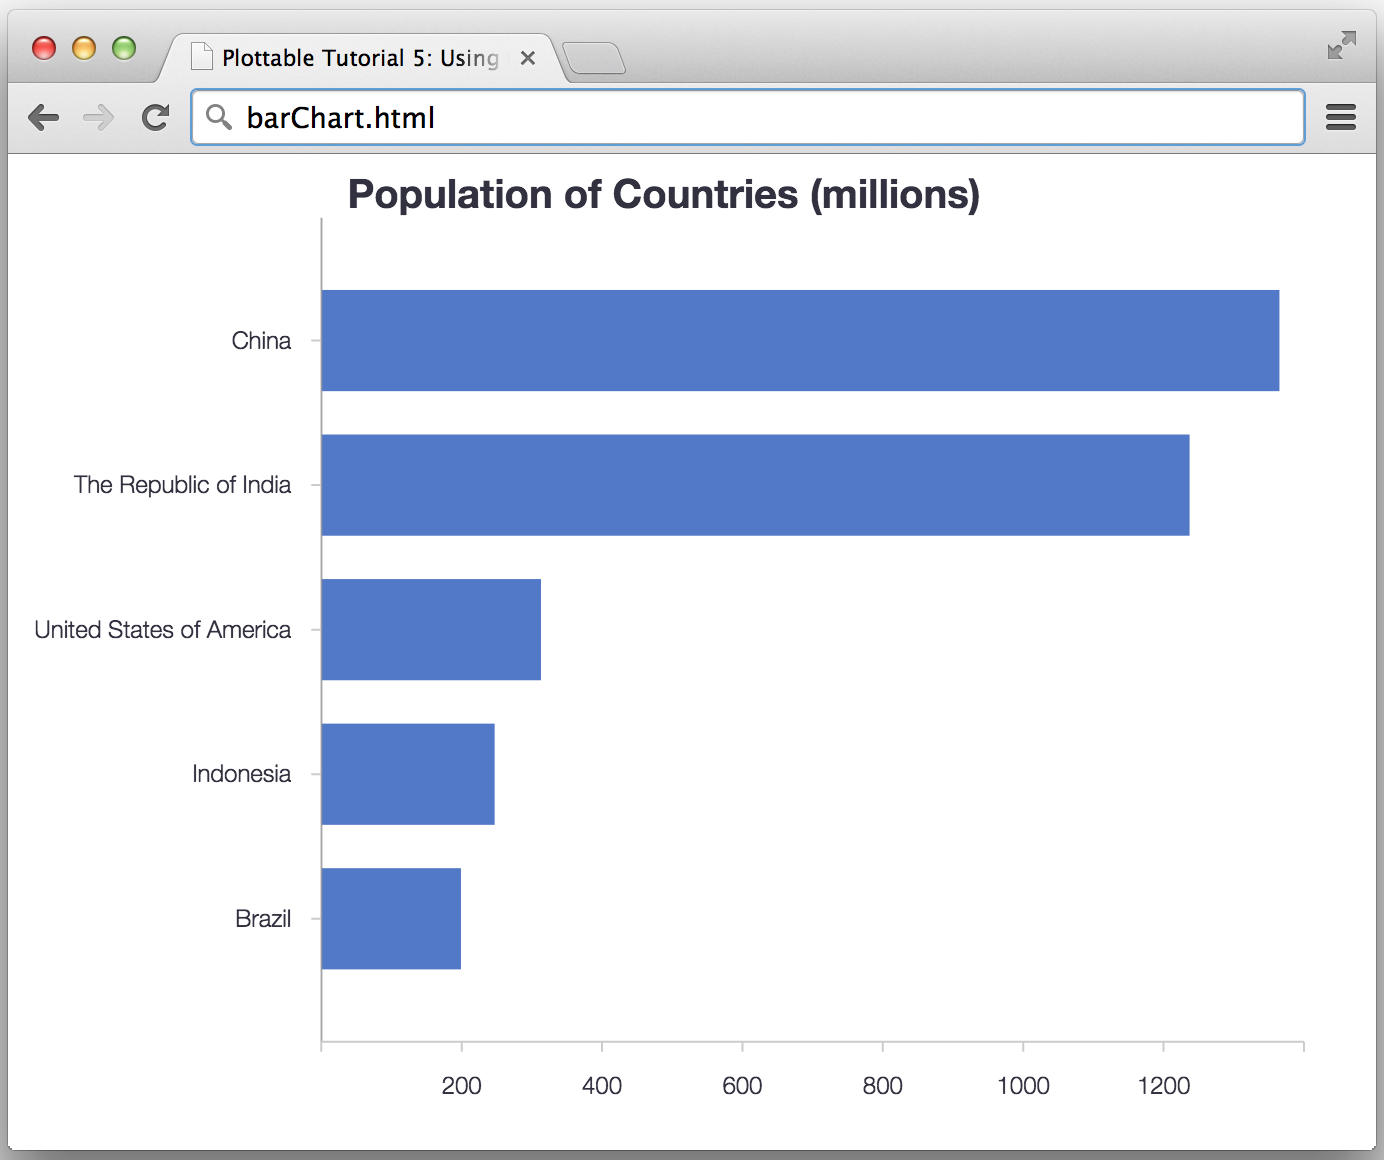
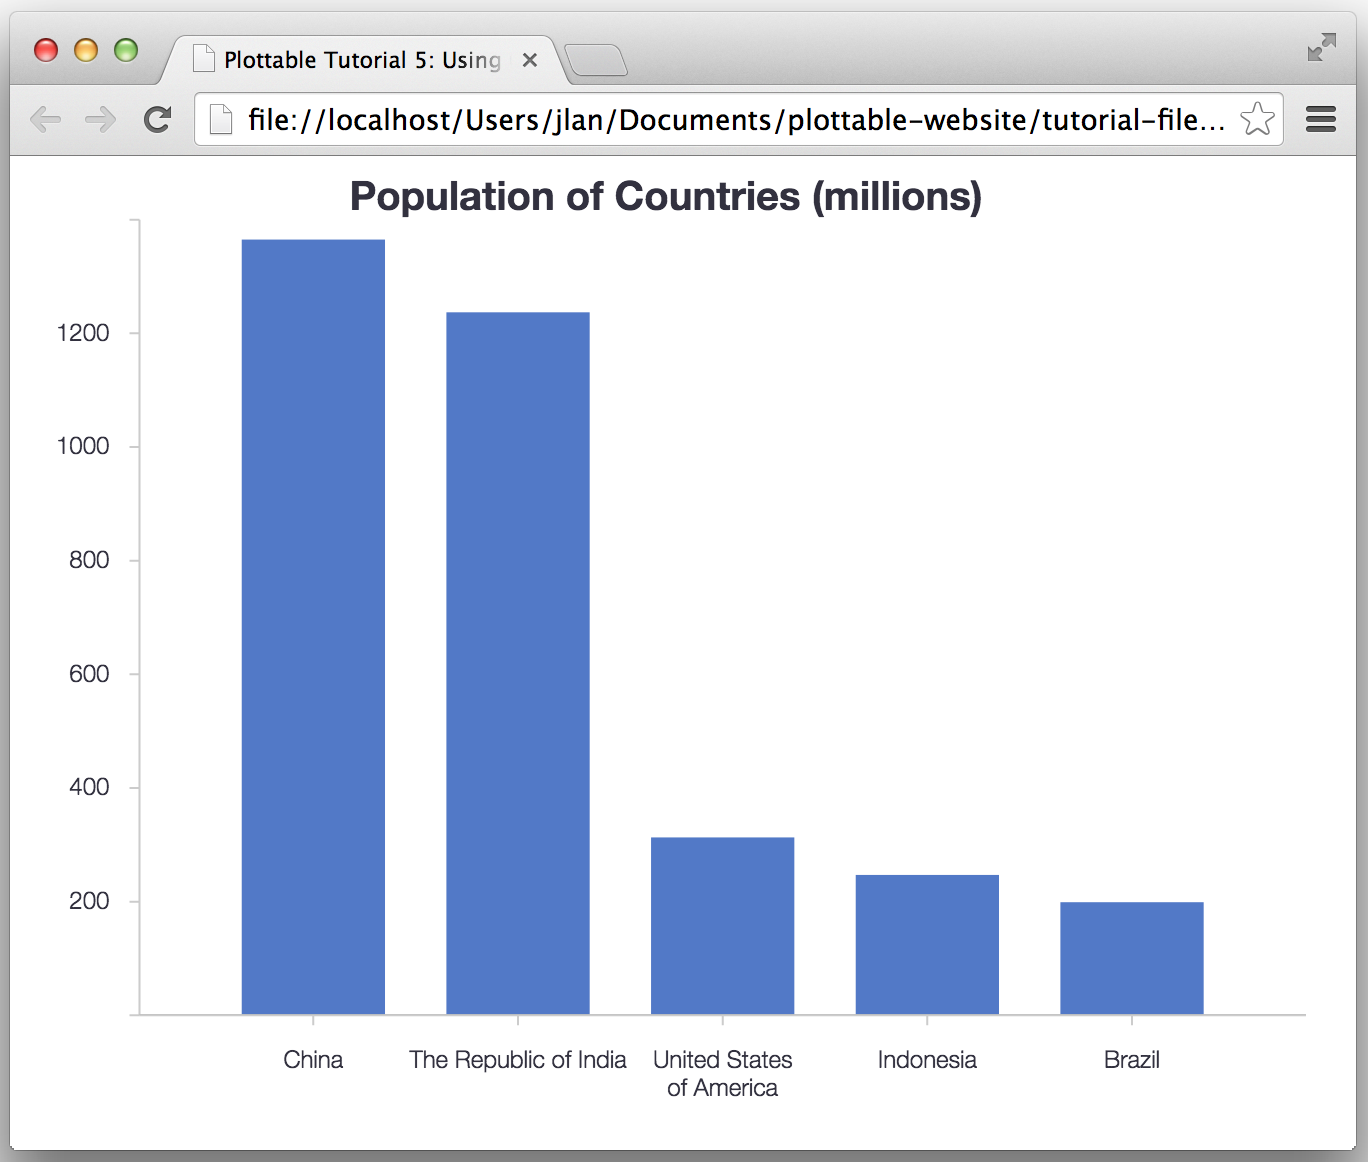
Change Tutorial 5 to start with a vertical bar plot.

diff --git a/tutorials/index.md b/tutorials/index.md
@@ -11,9 +11,7 @@ Get started with the Plottable Tutorial: Download the packaged tutorial
 files at <http://plottablejs.org/tutorials.zip>; extract
 it, and each subdirectory corresponds to a different tutorial. You can
 open the \`.html\` files directly in the browser, and modify the
-associated \`.js\` files with your favorite text editor. Alternatively,
-you can clone the entire repository from
-<https://github.com/palantir/plottable>.
+associated \`.js\` files with your favorite text editor.
 
 <nav markdown="1">
 - [Plottable Concepts](#plottable-concepts)
@@ -977,38 +975,38 @@ As always, we start with the html code:
 The majority of the code in `barChart.js` follows what we did in
 previous tutorials. We create axes, scales, plots, and projectors before
 putting everything into a table to create the chart. The new classes used in
-this example are Ordinal scales and HorizontalBar.
+this example are the Ordinal scale and the Bar plot.
 
 As always, we start by defining our scales. Here, since this is a
-horizontal bar chart, we want the y scale to be ordinal, the x scale can
+bar chart, we want the x scale to be ordinal, and the y scale can
 remain linear.
 
 {% highlight javascript %}
-var xScale = new Plottable.Scale.Linear();
-var yScale = new Plottable.Scale.Ordinal();
+var xScale = new Plottable.Scale.Ordinal();
+var yScale = new Plottable.Scale.Linear();
 {% endhighlight %}
 
 Next we create the axes, which are very similar to the other axes we
 have seen. However, this time, since we want to use Strings instead of
-Numbers for the y-axis, we use Category, instead of Numeric.
+Numbers for the x-axis, we use Category, instead of Numeric.
 
 {% highlight javascript %}
-var xAxis = new Plottable.Axis.Numeric(xScale, "bottom");
-var yAxis = new Plottable.Axis.Category(yScale, "left");
+var xAxis = new Plottable.Axis.Category(xScale, "bottom");
+var yAxis = new Plottable.Axis.Numeric(yScale, "left");
 {% endhighlight %}
 
 Now we need to create the actual bar plot. As with previous plots, we
-need to specify the scales and the data to use. The only difference is
+need to specify the scales, data, and projectors to use. The only difference is
 that now are going to make a Bar plot.
 
 {% highlight javascript %}
-var barPlot = new Plottable.Plot.Bar(xScale, yScale, false);
+var barPlot = new Plottable.Plot.Bar(xScale, yScale, true);
 barPlot.addDataset(barData);
-barPlot.project("y", "country", yScale);
-barPlot.project("x", "population", xScale);
+barPlot.project("x", "country", xScale);
+barPlot.project("y", "population", yScale);
 {% endhighlight %}
-The `false` parameter passed to the Bar plot constructor indicates that the Bar plot
-should be horizontal.
+The `true` parameter passed to the Bar plot constructor indicates that the
+Bar plot should be vertical.
 
 Finally, we put everything in a table to create the chart. This looks
 exactly the same as in previous examples. Your final code should look
@@ -1016,14 +1014,14 @@ like the following:
 
 {% highlight javascript %}
 function makeBarChart() {
-  var xScale = new Plottable.Scale.Linear();
-  var xAxis = new Plottable.Axis.Numeric(xScale, "bottom");
-  var yScale = new Plottable.Scale.Ordinal();
-  var yAxis = new Plottable.Axis.Category(yScale, "left");
-  var barPlot = new Plottable.Plot.Bar(xScale, yScale, false);
+  var xScale = new Plottable.Scale.Ordinal();
+  var yScale = new Plottable.Scale.Linear();
+  var xAxis = new Plottable.Axis.Category(xScale, "bottom");
+  var yAxis = new Plottable.Axis.Numeric(yScale, "left");
+  var barPlot = new Plottable.Plot.Bar(xScale, yScale, true);
   barPlot.addDataset(barData);
-  barPlot.project("y", "country", yScale);
-  barPlot.project("x", "population", xScale);
+  barPlot.project("x", "country", xScale);
+  barPlot.project("y", "population", yScale);
 
   var title = new Plottable.Component.TitleLabel("Population of Countries (millions)");
 
@@ -1042,3 +1040,23 @@ function makeBarChart() {
 {% endhighlight %}
 
 ![]({{ site.baseurl }}/build/images/tutorials/barChart.png)
+
+If we want to make a horizontal Bar plot, we can pass `false` as the third
+parameter to the constructor. We also need to change the Y scale to Ordinal
+and the X scale to Linear, and swap the axes and projectors as well:
+
+{% highlight javascript %}
+var xScale = new Plottable.Scale.Linear();
+var yScale = new Plottable.Scale.Ordinal();
+var xAxis = new Plottable.Axis.Numeric(xScale, "bottom");
+var yAxis = new Plottable.Axis.Category(yScale, "left");
+var barPlot = new Plottable.Plot.Bar(xScale, yScale, false);
+barPlot.addDataset(barData);
+barPlot.project("y", "country", yScale);
+barPlot.project("x", "population", xScale);
+}
+{% endhighlight %}
+
+The chart will then be horizontal:
+
+![]({{ site.baseurl }}/build/images/tutorials/horizontalBarChart.png)
